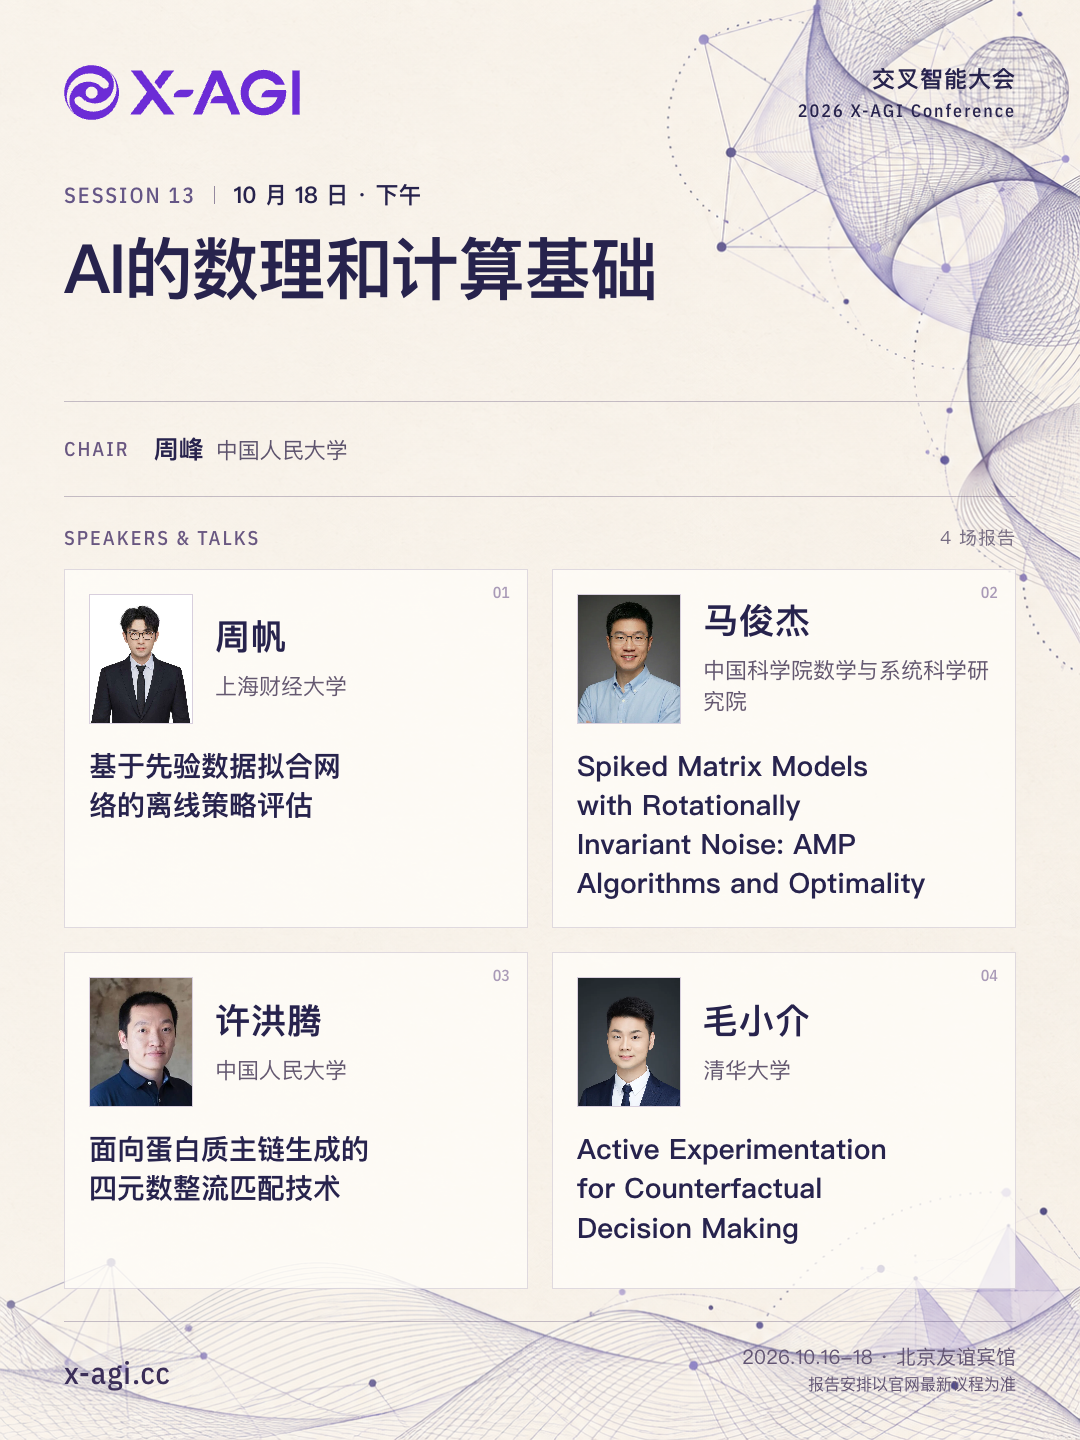
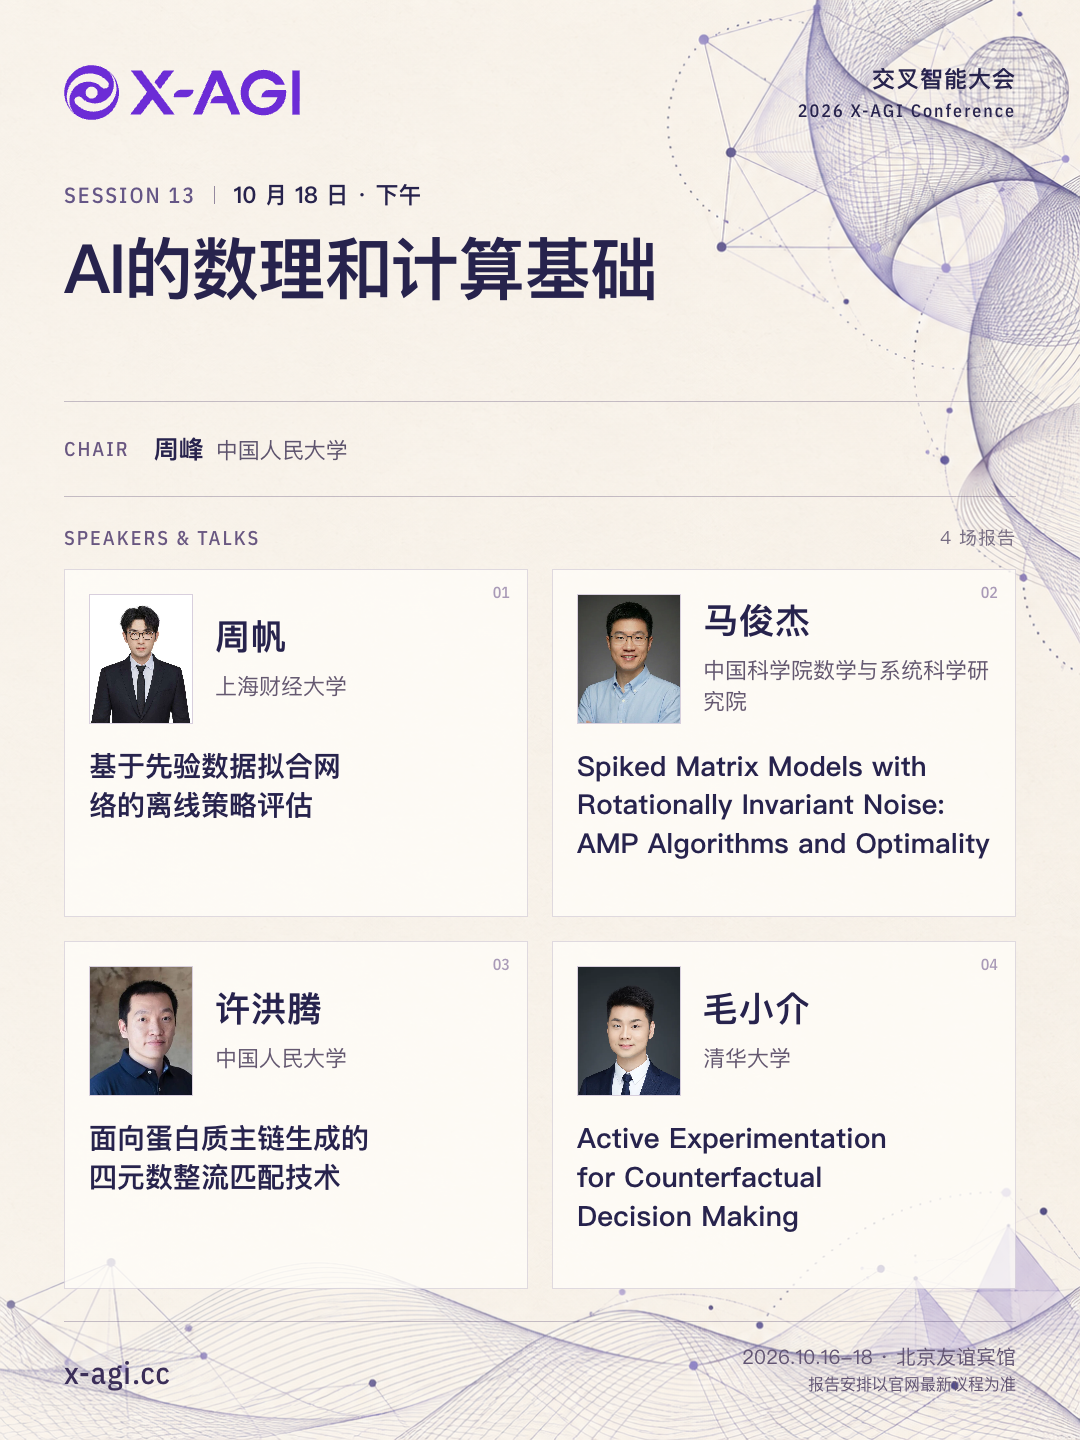
Fit long poster titles within the speaker grid

diff --git a/docs/session-posters-2026.md b/docs/session-posters-2026.md
@@ -20,6 +20,7 @@
 底图只有象牙纸、靛紫和淡紫的抽象主题线刻，不包含文字、Logo 或人物。
 标题、时间、姓名、学校或单位以及真实头像通过 `scripts/lib/session-poster-template.mjs` 的 HTML 模板确定性排版。
 文字和头像不会交给图像模型重画。
+导出时固定讲者网格的两行高度，按实际排版缩小较长报告题目的字号，并检查卡片、文字和页脚之间的边界。
 缺失题目与头像保留明确占位，不猜测题目、不合成人脸，也不从集体照识别人像。
 
 2026-09-17 从同一腾讯源表重新同步 14 个专题，源表将“姚金哥”更正为“姚金戈”，并补齐其单位“至知研究院”及报告题目。
